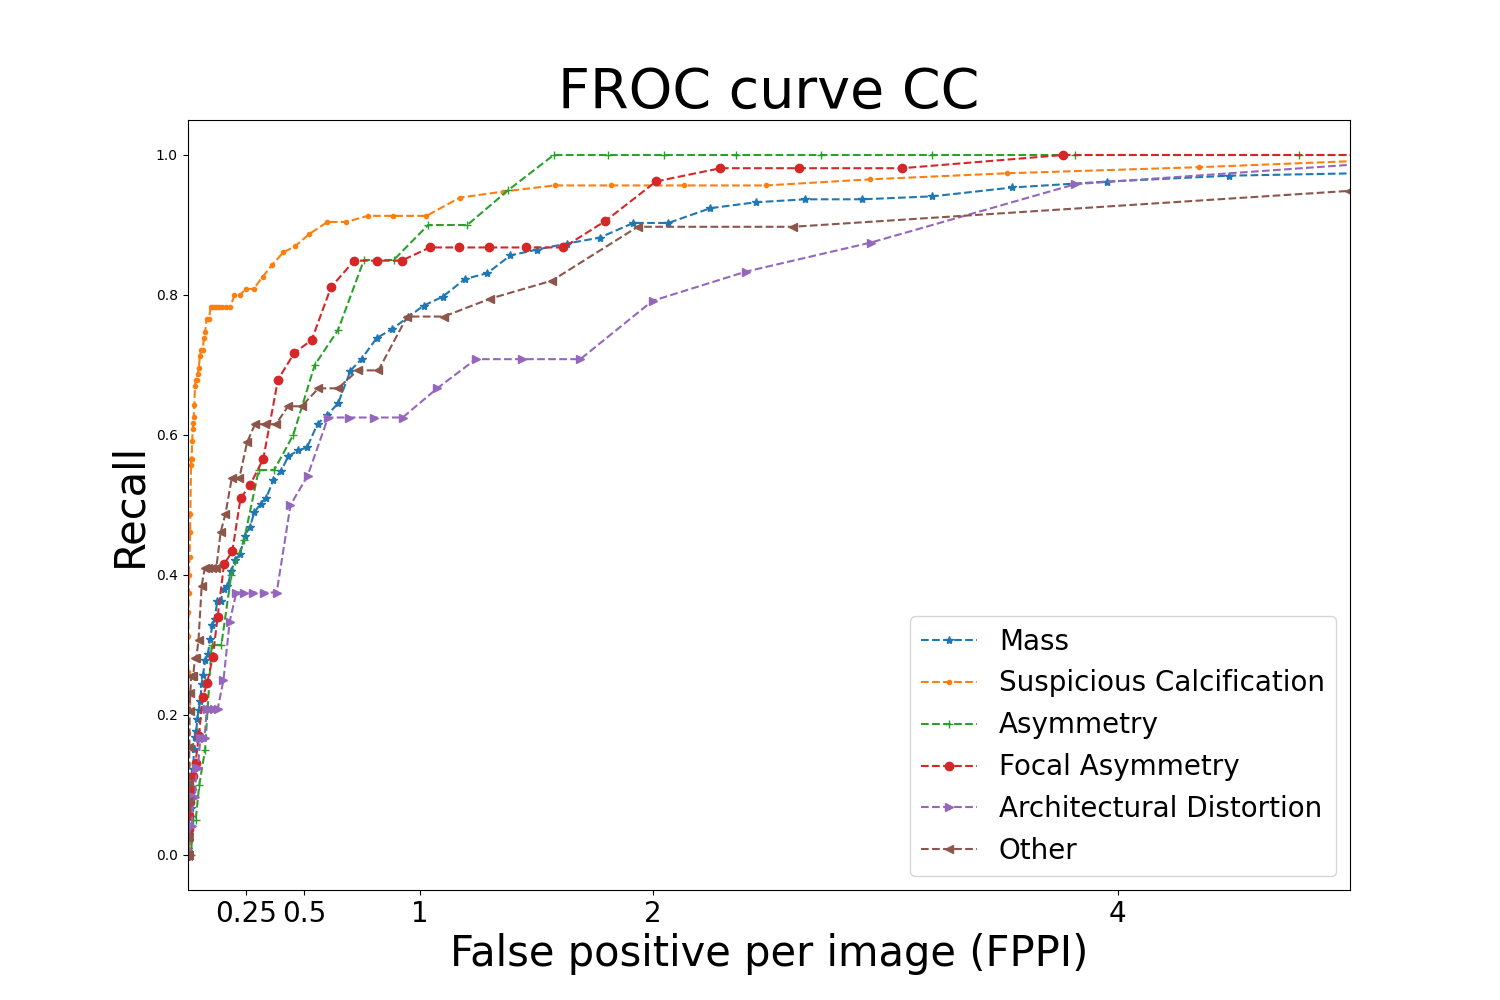
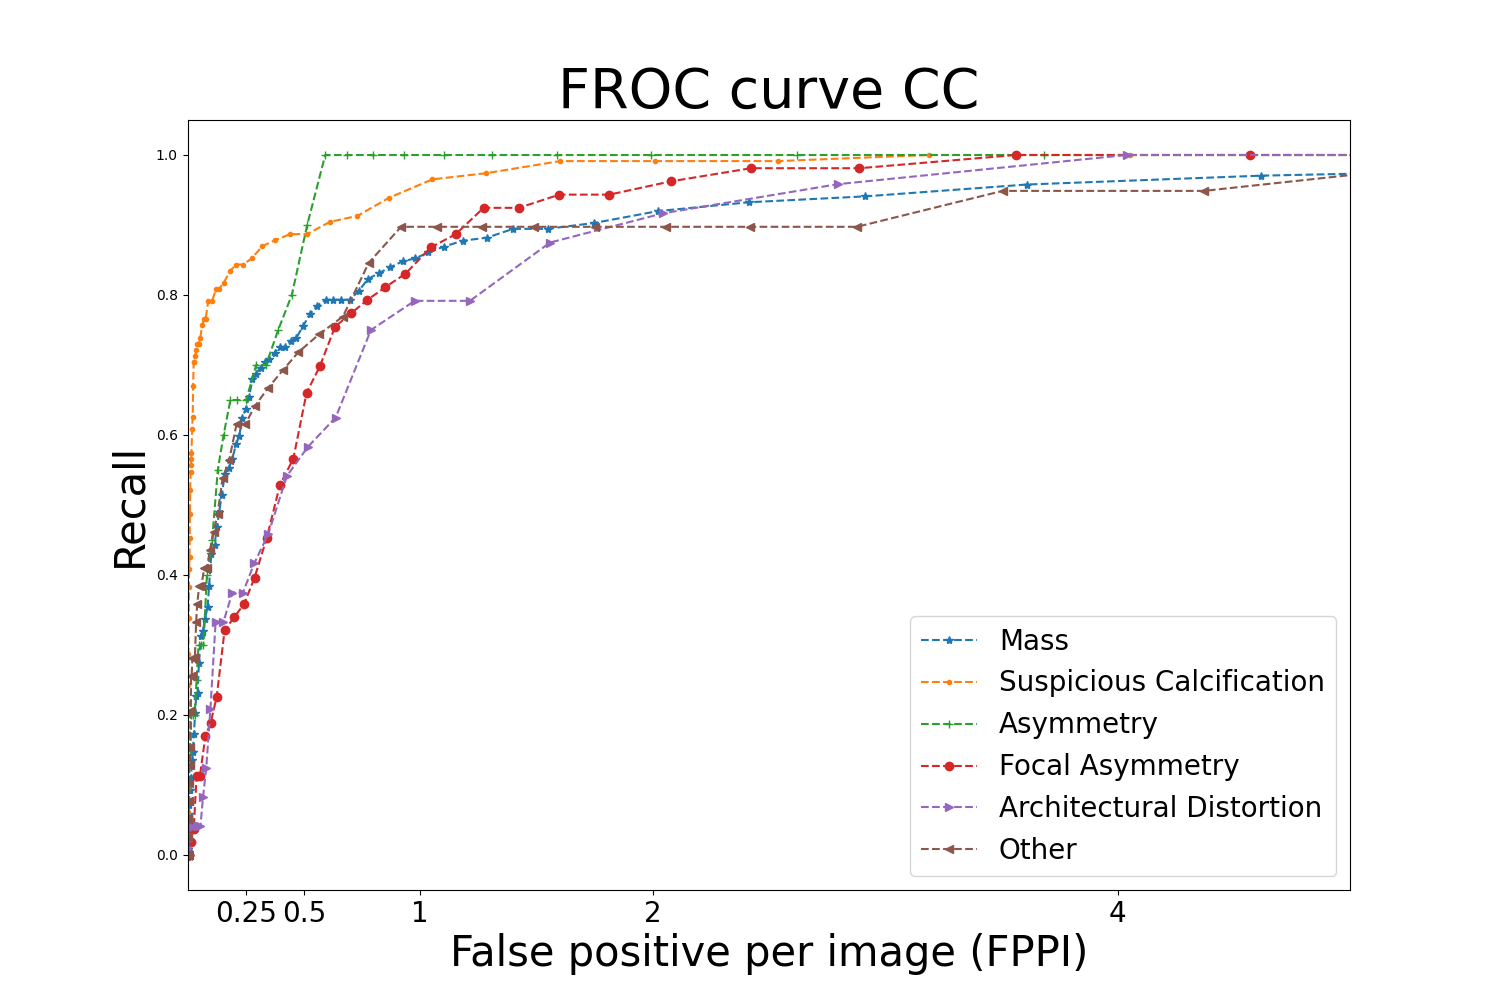
froc thres

diff --git a/torch_utils/froc.py b/torch_utils/froc.py
@@ -199,8 +199,8 @@ class FROC():
     def compute(self, preds, targets):
         lls_accuracy = {}
         nlls_per_image = {}
-        thres_list = np.linspace(0,1e-4,100, endpoint= True)
-        thres_list2 = np.linspace(1e-4,1,100)
+        thres_list = np.linspace(0,1e-1,100, endpoint= True)
+        thres_list2 = np.linspace(1e-1,1,100)
         thres_list = np.append(thres_list, thres_list2[1:])
         print(thres_list)
         first = np.ones([self.num_classes],dtype= bool)
